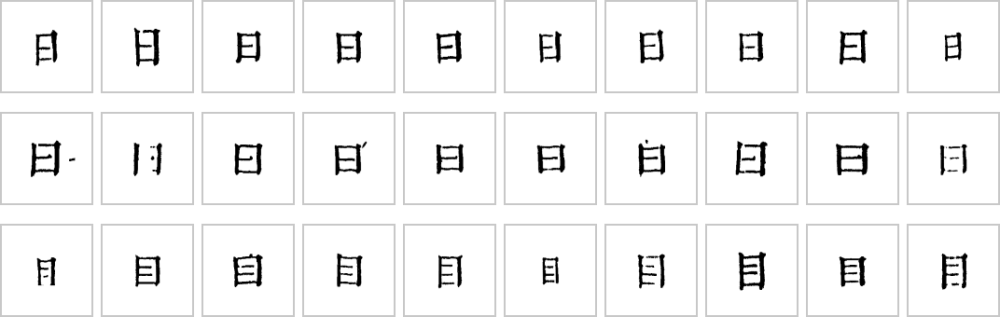
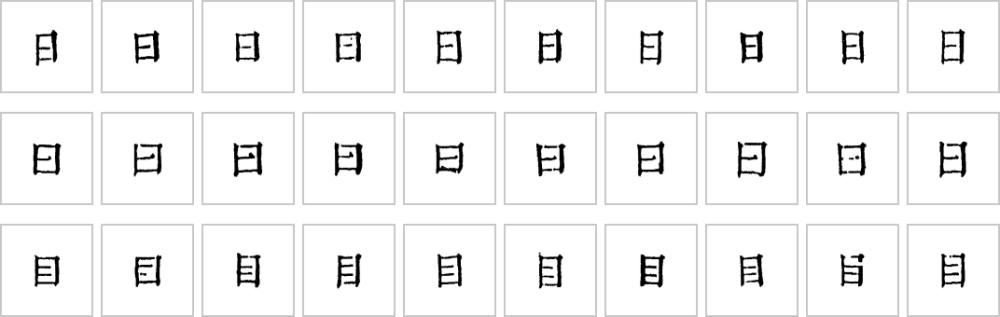
Wiki：Step1 加折线界行例图、Step3 加和 YOLO 对照一节、5-a 换干净刻例、Step6–7 换切分干净的例页
- 出图脚本加 chord（界行两端直连）、yolo（yolo-tool 原生字框，--yolo 给模型目录）、tight 图层，
  vline 类图（界行附近竖条横向放大看弯），glyphs 默认挑不贴边、不压线、高宽墨量接近中位的刻例。
- Step6–7 例页从 vol04 第 65 页换到第 60 页：65 页 Step1 界行折线拟歪，格骑在两字中间（已交切分修）。

Claude-Session: https://claude.ai/code/session_01LiMGSfwTEctbuxXBj9ktew

diff --git a/wiki/tools/make_shots.py b/wiki/tools/make_shots.py
@@ -11,6 +11,9 @@
     guji products pack fetch vol04 -w <殿本工作区>
     # 2. 出图（--ws 书ID=工作区，可多个；--only 只出某几张）
     python wiki/tools/make_shots.py --ws 96mid1ogzk=<殿本工作区> [--only step1-border]
+    # 带 yolo 图层的图（Step3「和 YOLO 对比」）还要 yolo-tool 的模型：
+    #   git clone --depth 1 https://github.com/open-guji/yolo_tool ../yolo_tool
+    #   python wiki/tools/make_shots.py ... --yolo ../yolo_tool/model
 
 出图只读产物，不改工作区；字块、列图缺缓存时会按 cv 的规则现场重建（写进工作区 cache/）。
 图里不写中文字（图注写在 Wiki 正文里），只有列号这类 ASCII 标记。
@@ -46,6 +49,8 @@ C = {
     "auto": (40, 160, 40),       # 自动放行：绿
     "human": (200, 120, 30),     # 人裁过：蓝
     "review": (40, 40, 220),     # 落人审：红
+    "chord": (210, 180, 0),      # 界行两端连成的直线（对照折线）：青
+    "yolo": (200, 90, 20),       # yolo-tool 原生单字框：蓝
 }
 COL_TINTS = [(255, 220, 180), (180, 230, 255)]  # 列带交替底色（浅蓝 / 浅橙）
 
@@ -131,6 +136,39 @@ def layer_border(bk, page, img, th):
         cv2.line(img, (0, y), (W - 1, y), C["head"], th)
 
 
+def layer_chord(bk, page, img, th):
+    """每条界行只取上下两端连一条直线：和折线对照，看中段弯了多少。"""
+    H, W = img.shape[:2]
+    bd = bk.prod("border_detect", page)["borders"]
+    ys = (bd["top"]["y_at_right"], bd["bottom"]["y_at_right"])
+    for v in bd["verticals"]:
+        p0, p1 = [(tl(line_x(v, y), W), int(round(y))) for y in ys]
+        cv2.line(img, p0, p1, C["chord"], max(1, th - 1), cv2.LINE_AA)
+
+
+YOLO_MODEL: str | None = None
+_YOLO = {}
+
+
+def yolo_chars(bk, page):
+    """yolo-tool 原生两段模型（版面 → 单字）在原图上的单字框，左上原点；要 --yolo 给模型目录。"""
+    key = (str(bk.ws), bk.book, page)
+    if key not in _YOLO:
+        if not YOLO_MODEL:
+            raise SystemExit("yolo 图层要 --yolo <yolo_tool 的 model/ 目录>")
+        from open_guji_cv.books.siku_zongmu.yolo_tool_infer import YoloTool
+        if "tool" not in _YOLO:
+            _YOLO["tool"] = YoloTool(YOLO_MODEL)
+        _, chars = _YOLO["tool"].infer(bk.raw(page))
+        _YOLO[key] = [b for b in chars if b.cls != "ear"]
+    return _YOLO[key]
+
+
+def layer_yolo(bk, page, img, th):
+    for b in yolo_chars(bk, page):
+        cv2.rectangle(img, (int(b.x0), int(b.y0)), (int(b.x1), int(b.y1)), C["yolo"], th)
+
+
 def layer_columns(bk, page, img, th):
     H, W = img.shape[:2]
     cols = bk.prod("column_warp", page)["column_windows"]["columns"]
@@ -183,6 +221,14 @@ def layer_shrink(bk, page, img, th):
     for c in _chars(bk, page):
         p0, p1 = _rect(c, W)
         cv2.rectangle(img, p0, p1, C["flag"] if c["flags"] else C["char"], th)
+
+
+def layer_tight(bk, page, img, th):
+    """Step4 紧框，一律绿色（和 YOLO 字框对照时用，不按 flag 标红）。"""
+    W = img.shape[1]
+    for c in _chars(bk, page):
+        p0, p1 = _rect(c, W)
+        cv2.rectangle(img, p0, p1, C["char"], th)
 
 
 def layer_seal(bk, page, img, th):
@@ -247,7 +293,8 @@ def layer_ocr(bk, page, img, th):
 
 LAYERS = {"border": layer_border, "columns": layer_columns, "cells": layer_cells,
           "shrink": layer_shrink, "seal": layer_seal, "admit": layer_admit,
-          "free": layer_free, "ocr": layer_ocr}
+          "free": layer_free, "ocr": layer_ocr, "chord": layer_chord, "yolo": layer_yolo,
+          "tight": layer_tight}
 
 
 # ---------------------------------------------------------------- 组图
@@ -362,8 +409,32 @@ def cell_with_tight(bk, page, cid, pad=6):
     return img
 
 
-def glyph_examples(ws_data: Path, char: str, n: int):
-    """字形库里某字的刻例图块（数据目录 output/glyph_store/patches）。"""
+def _patch_stats(im):
+    """图块的墨迹统计：外接框高宽、墨占比、贴边墨（被邻字、界行、印压进来的迹象）、碎块数。"""
+    g = cv2.cvtColor(im, cv2.COLOR_BGR2GRAY) if im.ndim == 3 else im
+    m = (g < 128).astype(np.uint8)
+    if not m.any():
+        return None
+    ys, xs = np.nonzero(m)
+    edge = np.concatenate([m[:3].ravel(), m[-3:].ravel(), m[:, :3].ravel(), m[:, -3:].ravel()]).mean()
+    n, _, st, _ = cv2.connectedComponentsWithStats(m, connectivity=8)
+    specks = int((st[1:, cv2.CC_STAT_AREA] < 6).sum()) if n > 1 else 0
+    # 界行、框线残段：横向或竖向贯穿过半个图块的长直墨线
+    H, W = m.shape
+    rows = max((np.max(np.diff(np.flatnonzero(np.diff(np.r_[0, r, 0])))[::2], initial=0)
+                for r in m if r.any()), default=0)
+    cols = max((np.max(np.diff(np.flatnonzero(np.diff(np.r_[0, c, 0])))[::2], initial=0)
+                for c in m.T if c.any()), default=0)
+    line = float(rows > 0.6 * W) + float(cols > 0.85 * H)
+    return dict(h=ys.max() - ys.min() + 1, w=xs.max() - xs.min() + 1, ink=m.mean(), edge=edge,
+                specks=specks, line=line)
+
+
+def glyph_examples(ws_data: Path, char: str, n: int, clean: bool = True):
+    """字形库里某字的刻例图块（数据目录 output/glyph_store/patches）。
+
+    `clean`：挑干净的——不贴边（没被邻字、界行、印压进来）、碎点少、墨迹高宽和墨量都接近本字中位，
+    再按册页均匀取 n 个，免得 Wiki 上看着像切坏了。不挑就按库里顺序取前 n 个。"""
     gs = ws_data / "output" / "glyph_store"
     ids = []
     with open(gs / "exemplars.jsonl", encoding="utf-8") as f:
@@ -371,18 +442,34 @@ def glyph_examples(ws_data: Path, char: str, n: int):
             r = json.loads(line)
             if r["char"] == char:
                 ids.append(r["instance_id"])
-    out = []
+    cands = []
     for iid in ids:
         # 图块文件名两种写法都有：冒号换成 _（多数）或 ~（bare~ 那批）
         p = next((q for q in (gs / "patches" / (iid.replace(":", s) + ".png") for s in ("_", "~"))
                   if q.exists()), None)
-        if p is not None:
-            im = cv2.imread(str(p))
-            if im is not None:
-                out.append(im)
-        if len(out) >= n:
+        if p is None:
+            continue
+        im = cv2.imread(str(p))
+        if im is None:
+            continue
+        cands.append((iid, im))
+        if not clean and len(cands) >= n:
             break
-    return out
+    if not clean:
+        return [im for _, im in cands]
+    st = [(iid, im, _patch_stats(im)) for iid, im in cands]
+    st = [t for t in st if t[2]]
+    if not st:
+        return []
+    med = {k: float(np.median([t[2][k] for t in st])) for k in ("h", "w", "ink")}
+
+    def bad(s):
+        return (s["edge"] * 50 + s["specks"] * 0.3 + s["line"] * 5
+                + sum(abs(s[k] / med[k] - 1) for k in ("h", "w", "ink")))
+    good = sorted(st, key=lambda t: bad(t[2]))[:max(n * 3, n)]
+    good.sort(key=lambda t: t[0])                      # 按册页排，均匀抽 n 个
+    step = len(good) / n if len(good) > n else 1
+    return [good[int(i * step)][1] for i in range(min(n, len(good)))]
 
 
 def frame(img, color=(200, 200, 200), t=2):
@@ -412,6 +499,21 @@ def render(shot: dict, books: dict, data_dirs: dict) -> np.ndarray:
         return vstack([hstack(views[i:i + n], gap=gap) for i in range(0, len(views), n)], gap=gap)
     if kind == "column":
         return column_pair(bk(), shot["page"], shot["col"])
+    if kind == "vline":        # 一条界行附近的竖条，横向放大 xscale 倍看弯：每幅一组图层
+        b, page = bk(), shot["page"]
+        W = b.raw(page).shape[1]
+        bd = b.prod("border_detect", page)["borders"]
+        v = bd["verticals"][shot["line"]]
+        ys = range(int(bd["top"]["y_at_right"]) - 30, int(bd["bottom"]["y_at_right"]) + 30)
+        xs = [tl(line_x(v, y), W) for y in ys]
+        hw = shot.get("half", 40)
+        x0, x1 = max(0, min(xs) - hw), min(W, max(xs) + hw)
+        sx = shot.get("xscale", 3)
+        views = []
+        for p in shot["panels"]:
+            img = page_view(b, page, p.get("layers", []), th=shot.get("th", 1))[ys[0]:ys[-1], x0:x1]
+            views.append(cv2.resize(img, (img.shape[1] * sx, img.shape[0]), interpolation=cv2.INTER_NEAREST))
+        return hstack(views, gap=shot.get("gap", 24))
     if kind == "cells":        # 几格：每格「Step3 格 | Step4 紧框」或单一种
         b = bk()
         rows = []
@@ -452,7 +554,10 @@ def main(argv=None) -> int:
                     help="书ID=中心库数据目录（$GUJI_DATA_HOME/<分支>/<ws id>），glyphs 类图要")
     ap.add_argument("--only", action="append", default=[], help="只出这几张（id 前缀）")
     ap.add_argument("--spec", default=str(HERE / "shots.yaml"))
+    ap.add_argument("--yolo", help="yolo-tool 仓的 model/ 目录（内含 type/、slide/ 的 best.onnx），yolo 图层要；装 .[yolo]")
     a = ap.parse_args(argv)
+    global YOLO_MODEL
+    YOLO_MODEL = a.yolo
     for kv in a.ws:
         k, v = kv.split("=", 1); WS[k] = v
     data_dirs = dict(kv.split("=", 1) for kv in a.data)

diff --git a/wiki/Step3-逐字切分.md b/wiki/Step3-逐字切分.md
@@ -25,6 +25,47 @@
 
 *vol46 第 106 页第 4 列：「聖學入門書」五个大字之后接双行小注「巡撫採進本／無卷數　江西」，两行字数不一样多，左行比右行短，空出的位置不切格。*
 
+## 和 YOLO 模型对照
+
+切分有一个外部参照：[yolo-tool](https://github.com/open-guji/yolo_tool)。它用两段 YOLOv8 模型来切：先找版面框，再在框里找单字框，是另一套完全独立的做法。cv 在 `books/siku_zongmu/yolo_tool_infer.py` 里复刻了它的 ONNX 推理（只要 onnxruntime，装 `.[yolo]`），同一页图可以两边各切一遍，逐框比。
+
+**同一页上比一比。** 下面每组图，左边绿框是我们的 Step4 紧框，右边蓝框是 yolo-tool 原生输出（2026-11-03 用现行模型重跑）。
+
+<img src="images/step3-yolo-v04p96.png" width="640" alt="vol04 第 96 页：我们的字框与 YOLO 字框">
+
+*vol04 第 96 页右上。正文字两边几乎一一对上。两处口径不同：「一」我们只框墨迹，是扁扁一条，YOLO 框整个字格；YOLO 还常在列首空白处多出一个空框。*
+
+<img src="images/step3-yolo-v04p127.png" width="640" alt="vol04 第 127 页：卷首大印处的 YOLO 碎框">
+
+*vol04 第 127 页（卷首）。大印扫成黑白后是一片麻点，YOLO 在上面打出几十个碎框，我们这边有印章定位兜着，印里不出字框。*
+
+**整册的数**（vol04 全册 217 页，同一份图）：
+
+| | 框数 | 说明 |
+|---|---:|---|
+| 我们的字框，YOLO 有对应框（IoU ≥ 0.3） | 34,012（98.95%） | |
+| 落在 YOLO 某个框里，但重合不到 0.3 | 283（0.8%） | 几乎全是「一」，是上面说的框口径不同，不算分歧 |
+| YOLO 没有框 | 77（0.2%） | 多在列首抬头位（「國朝」的「國」、「欽定」「聖祖」），YOLO 漏掉了 |
+| YOLO 的框，我们这边什么都没有 | 1,741 | 印上的麻点、列首列尾空框、版心 |
+| YOLO 一个框盖住我们两格 | 7 | 3 处在 vol04 第 65 页，是我们 Step1 界行拟歪、一格切在两字中间（已交给切分修），YOLO 这里是对的 |
+
+10-19 在 vol04/05 的 100 页上做过一次逐列字数的正面对比（[doc/research/yolo_release_comparison.md](https://github.com/open-guji/open-guji-cv/blob/dev/doc/research/yolo_release_comparison.md)）。逐列字数全对率我们 96.6%，YOLO 原生 64.4%，加轻清理后 83.6%；单字框的查准、查全两边打平。两边的错几乎不重叠：我们会把横画字拦腰切开（「三」切成「一」＋「二」），YOLO 从不这样，但它会漏扁字、疏字，也会把版心当正文列。
+
+**在什么情况下用它。** YOLO 不替代我们的切分，只在两处出场：
+
+1. **当评测金标的一方。** 殿本 `column_counts` 评测的金标，是 daizhige 逐列本和一份「YOLO 粗切加人工修框」的成品各数一遍，两边字数一致的列才收（vol01–10 共 14,926 列）。见 [实验与评测](实验与评测#评测guji-eval)。
+2. **当第二意见：YOLO 并格闸**（`row_segment.yolo_merge`，缺省关）。相邻两格落进同一个正常高的 YOLO 字框，就按少一格重切这一列，重切后对得上才采用。它只治「一个字切成两格」。
+
+Step3 一共有三个结构先验开关，按这部书的整理本是什么样子来选：
+
+| 整理本 | 开哪个 | 殿本 |
+|---|---|---|
+| 逐列、带格位（每列从第几格起、哪格空、夹注在哪） | 逐列格位约束 `layout_prior` | 开着（daizhige 逐列本） |
+| 逐列，但只知道每列几个字 | 逐列字数先验 `colgold_prior` | 不开 |
+| 没有整理本 | YOLO 并格闸 `yolo_merge` | 不开 |
+
+殿本有逐列格位，开了 `layout_prior` 后已经没有列可让 YOLO 并格闸动，所以殿本不开它；它是留给没有整理本的书的。在殿本测试页上，它把逐列全对率从 97.0% 提到 97.8%，没有改坏的；在北行日錄 54 页上没有误并。新书要用，先当「疑似多切 → 送人看」，在本书上量过误并再改成自动并。选法的依据见 [doc/segmentation_v2_pipeline.md](https://github.com/open-guji/open-guji-cv/blob/dev/doc/segmentation_v2_pipeline.md)「Step3 结构先验：三个开关的名字与选法」。
+
 ## 怎么验
 
 切分代码按套书分目录（`books/<套书>/`），每套书有一份**样页单** `samples.yaml`，列着 10–30 页以前出过问题的页。改切分的 PR 要在样页上比改前改后，变了的页逐页看图：

diff --git a/wiki/Step1-边框与界行.md b/wiki/Step1-边框与界行.md
@@ -18,6 +18,22 @@
 
 *第 5 列「御纂周易折中」比正文高出一格，版框在这里往上凸出一个小框。蓝线是正文的上框，橙线是抬头框的上沿。*
 
+## 折线：中段弯的界行
+
+刻版、印刷、纸张收缩都会让界行不直。直线只能对上两头，中段就偏到字上，后面拉直列、切格都跟着歪。这时界行改拟成**三段折线**：两个折点 `y1`、`y2` 把线分成三段，各有斜率（`slope`、`k2`、`k3`）。
+
+<img src="images/step1-polyline-v04p146.png" width="420" alt="vol04 第 146 页第 5 条界行：直线与折线">
+
+*vol04 第 146 页第 5 条界行（右起），只截了界行左右各 30 像素，**横向放大 3 倍**好看出弯。左：原图，界行中段向左鼓出约 12 像素。中：青线把上下两端直接连起来，中段离开了界行。右：红线是 Step1 拟出的三段折线，从头到尾贴着界行走。在这条线上量，折线压着墨的点占 92%，直线只有 19%。*
+
+怎么定（`seg/polyline.py`）：
+
+1. 沿每条界行逐行量墨偏离直线多少，得出这一页的弯度。弯度中位 ≥ 7 像素，或任一条线 ≥ 24 像素，整页才改拟折线；其余的页仍用直线。
+2. 折点的高度固定在版框内 1/3、2/3 处（这一页是第 685、1280 行），每个折点只在直线估计左右 40 像素内找位置，跳不到隔壁界行去。
+3. 两道保险：相邻两条折线之间的列宽沿高度变化超过 25% 就退回直线；折线贴线的得分不比直线高，也退回直线。
+
+**拟错的时候**：界行很淡、字的竖笔又正好压在线上时，折线偶尔会被字「吸」过去，中段斜穿过正文（例如 vol04 第 65 页，2026-11 已交给切分修）。这种页 Step3 会把一格切在两个字中间，最后在 Step7 落人审，不会被自动放行。
+
 ## 难例
 
 **界行淡到几乎看不见。** vol40 第 34 页（新图源）界行很淡，中段还有字的竖笔压着，旧版把折点吸到了字上。现在照样能把九条界行都找准：

diff --git a/wiki/Step6-7-定字与放行.md b/wiki/Step6-7-定字与放行.md
@@ -1,8 +1,8 @@
 # Step6–7 定字与放行
 
-<img src="images/step7-admit-v04p65.png" width="480" alt="vol04 第 65 页：放行结果">
+<img src="images/step7-admit-v04p60.png" width="480" alt="vol04 第 60 页：放行结果">
 
-*vol04 第 65 页的放行结果。绿底：自动放行；蓝底：人审定过；红框红底：落人审。这一页落审的 9 格多数是**切错的格**：一格骑在两个字中间（「之論」「何嘗」），字形对不上任何字，整理本也对不齐，所以放不了。*
+*vol04 第 60 页的放行结果。绿底：自动放行；蓝底：人审定过（「愼」「變」）；红框红底：落人审。这一页 159 格只落了 2 格：第 2 列的「曰」（「日」「曰」形近，上下文分不出）和第 9 列的「圖」（形近字组里几路判得不一致）。落人审的大多是这种**形近字拿不准**，不是切坏。*
 
 ## Step6 上下文裁决（`context_decide`）
 
@@ -42,7 +42,9 @@
 
 ## 落人审的格长什么样
 
-![vol04 第 65 页落人审的 9 格（Step4 字块）](images/step7-review-cells.png)
+![vol04 落人审的 10 格（Step4 字块）](images/step7-review-cells.png)
+
+*vol04 各页落人审的格，从左到右：「曰」「己」「巳」（日曰、己已巳形近字组，组内流程弃权）、「圖」（组内几路不一致）、「眚」「彖」（库里刻例太少，cov 不到 0.99，上下文也分不出）、「揀」「奧」（整理本这里是改字段，和字形对不齐）、「䝉」（生僻字，整理本守卫不让上下文改）、最后一格是少见的切分问题：格只切到字的一角，形状像乱码（`ctx_garble_shape`），不让上下文硬改。vol04 全册落审 80 格，其中 52 格是形近字组。*
 
 每格都记着为什么放不了（产物里的 `doubts`），如：
 

diff --git a/wiki/Step5-识别三路.md b/wiki/Step5-识别三路.md
@@ -12,9 +12,9 @@ Step4 出来的每个字块，由三路各自去找证据。三路**互相独立
 
 ## 5-a 字形库匹配
 
-![字形库里「御」「卷」「傳」「書」各 10 个刻例](images/step5-glyphs.png)
+![字形库里「書」「經」「傳」「爲」各 10 个刻例](images/step5-glyphs.png)
 
-*殿本字形库里「御」「卷」「傳」「書」的刻例，都是人审确认过、按书 ID（`96mid1ogzk`）收进库的。同一个字刻出来大小、粗细、残缺各不相同，字块要和这些刻例逐一比。*
+*殿本字形库里「書」「經」「傳」「爲」的刻例，都是人审确认过、按书 ID（`96mid1ogzk`）收进库的（图里挑的是不贴邻字、没压界行的干净刻例）。同一个字刻出来大小、粗细、笔画轻重各不相同，字块要和这些刻例逐一比。*
 
 做法：字块归一化后先用 HOG 特征找最像的几个刻例，再做弹性对齐算覆盖率 `cov`，分三档——
 
